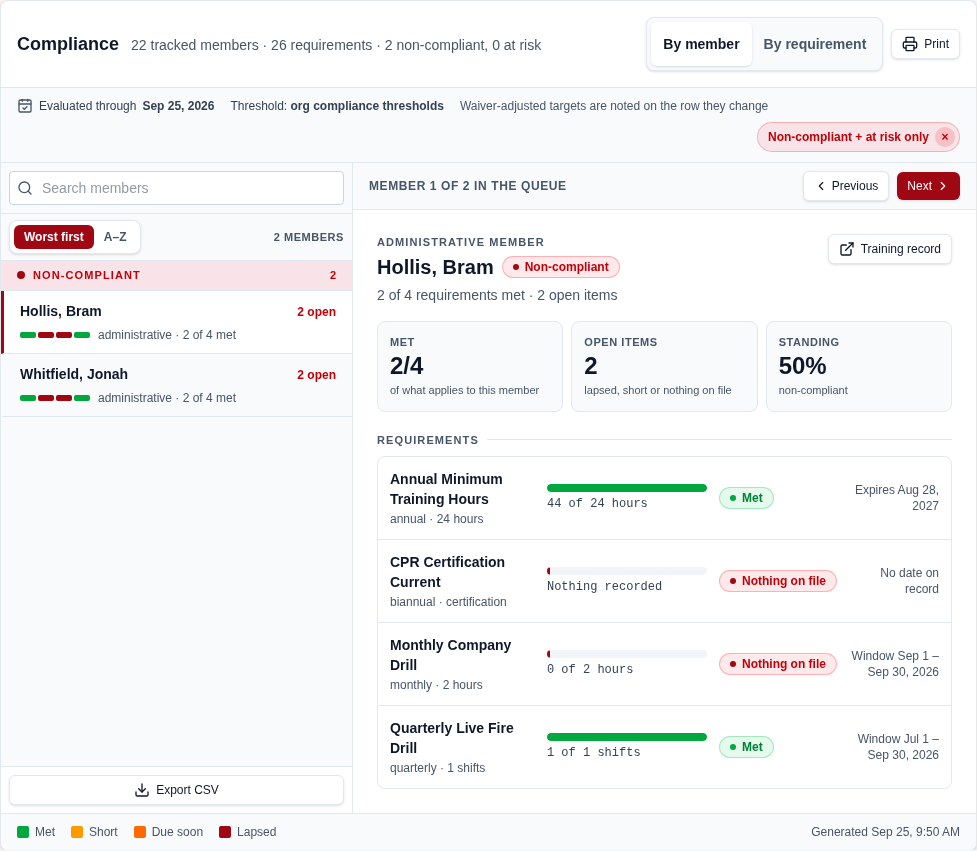
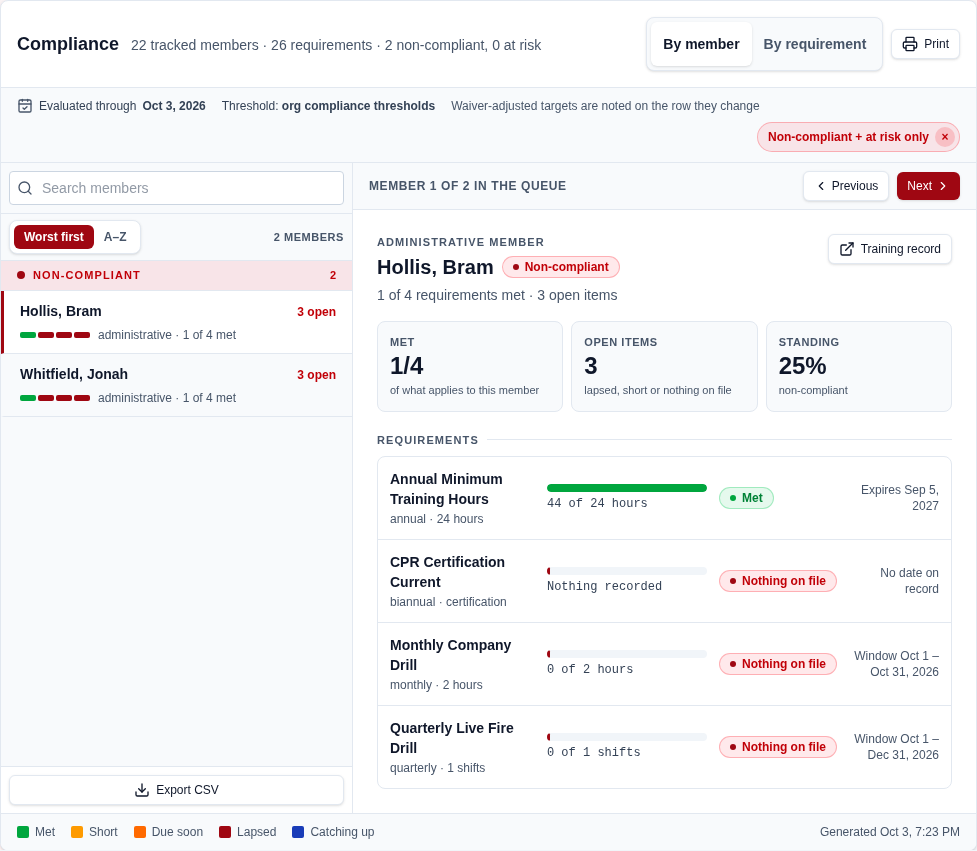
docs(screenshots): watchdog check-in, rebase onto main, re-shoot two stale shots
Rebased onto main (one new commit, ea939c38d: training requirement
grandfathering, PR #2878). That change adds an unconditional new legend
entry to the Compliance Matrix tab and an unconditional new caption line
to the printed compliance report, making 02-66-compliance-matrix and
02-65-print-compliance stale; re-shot both. Everything else the commit
touches gates its new UI on data no seeded demo requirement carries yet,
so the rest of the training guide's shots are unaffected.

Also corrected 02-66's alt text where re-seeding produced a different
shift figure than before, and fixed an unrelated pre-existing staleness
the re-shoot of 02-65 incidentally surfaced (stat-card labels had drifted
to COMPLIANT/AT RISK/NON-COMPLIANT from an earlier, untracked change).

audit_images.py reports no new findings against the baseline (582 images).

Claude-Session: https://claude.ai/code/session_01M6RQbvqu2x6BNrokNPaYjB

diff --git a/docs/training/SCREENSHOT_CURRENCY.md b/docs/training/SCREENSHOT_CURRENCY.md
@@ -1,5 +1,59 @@
 # Screenshot currency
 
+## Watchdog check-in: rebased onto main, one new commit audited, two shots re-shot, 2026-10-03
+
+This branch had drifted five commits behind `main` (merge-base `1e352a68b`):
+`ea939c38d` ("Let a training requirement exempt members who joined before it",
+PR #2878) plus its own three merge-main commits and the final merge commit
+`812b15cd4`. Rebased cleanly — none touch a file this branch's own commits
+modify.
+
+`ea939c38d` adds requirement "grandfathering": a new `catch_up` compliance
+tone/status, a substantially rewritten `RequirementModal.tsx` (new "Existing
+Members" policy section) and a new `ChangeScopeDialog.tsx`. Checked every
+screen this sweep's diff touched against what each shot actually frames:
+
+- **`02-92-requirement-evaluation-period`** — the new "Existing Members"
+  section is appended *after* `#req-include-current-month` in the DOM; the
+  shot scrolls that field to centre and captures the dialog's visible region,
+  so the new section falls outside the frame. Unaffected.
+- **`02-16-requirements`**, `SchedulingReportsPage`'s compliance tab
+  (`03-14-scheduling-reports`), `MyTrainingPage`, `CompliancePrintPage`'s
+  `cellMark` — all gate the new UI on `catch_up_deadline`/`grandfatheringSummary`
+  being set on the data, and the seeded demo requirements carry neither (the
+  feature is new), so nothing renders differently for them. Unaffected.
+- **`02-66-compliance-matrix`** — **stale.** `ComplianceMatrixTab.tsx`'s
+  legend row iterates a **fixed** tone list that now unconditionally includes
+  `CellTone.CATCH_UP` ("Catching up"), regardless of any member's data. Every
+  capture of this card now shows a fifth legend entry the old image lacks.
+  Re-shot.
+- **`02-65-print-compliance`** — **stale.** The caption line under the printed
+  table is a static string that now unconditionally reads `✓ met · ◐ in
+  progress · ✗ not started · Exp expired · Due existing member, before their
+  catch-up deadline · — does not apply to this member`, regardless of data.
+  Re-shot.
+- `PipelineEditModals.tsx`'s new "Members already enrolled" fieldset (shown
+  only when adding a requirement to a phase, not editing a link) has no
+  existing manifest entry — nothing to re-shoot.
+
+Re-shooting `02-66` also surfaced that the demo's `Quarterly Live Fire Drill`
+figure for Bram Hollis had drifted from the `1 of 1 shifts` the alt text
+quoted to `0 of 1 shifts` (seeded shift data isn't deterministic run to run);
+corrected the alt text in both `manifest.mjs` and the two places it's applied
+in `02-training.md` to match what the new image actually shows.
+
+Re-shooting `02-65` also happened to fix an unrelated, pre-existing staleness
+nothing had caught: its summary cards had drifted from `100% COMPLETE` /
+`PARTIALLY COMPLETE` / `NOT STARTED` (what the old, 9/25-dated capture shows)
+to the `CompliancePrintPage.tsx` that ships today, which reads `m.standing`
+and labels them `COMPLIANT` / `AT RISK` / `NON-COMPLIANT`. Whatever commit
+made that change predates this sweep's window and was never caught because
+nothing had re-shot this placeholder since. Fixed as a side effect of the
+re-shoot above; not chased further than this one image.
+
+`audit_images.py --baseline scripts/screenshots/audit_baseline.txt` reports no
+new findings (582 images checked).
+
 ## Watchdog check-in: rebased onto main, three new commits audited, 2026-10-03
 
 This branch had drifted three commits behind `main` (merge-base `2f08531b9`

diff --git a/docs/training/02-training.md b/docs/training/02-training.md
@@ -946,7 +946,7 @@ At risk, Compliant — worst first, and you step through them one at a time.
 The redesign, and why the grid went, is under
 [The Compliance Matrix is a queue you can work](#the-compliance-matrix-is-a-queue-you-can-work-2026-09-05) below.
 
-![The Compliance Matrix triage rail opened from the dashboard's non-compliant deep link: the Non-compliant + at risk only chip, members grouped by standing worst first, and Bram Hollis's detail with each requirement's figure — 44 of 24 hours, Nothing on file, 1 of 1 shifts](./images/02-66-compliance-matrix.png)
+![The Compliance Matrix triage rail opened from the dashboard's non-compliant deep link: the Non-compliant + at risk only chip, members grouped by standing worst first, and Bram Hollis's detail with each requirement's figure — 44 of 24 hours, Nothing on file, 0 of 1 shifts](./images/02-66-compliance-matrix.png)
 
 > **Hint:** Use this view for annual reporting and to identify which members need attention before compliance deadlines.
 
@@ -2701,7 +2701,7 @@ ordered worst-first, and stepped through one at a time, with the numbers behind
 each status on the row: _"6 of 24 hours"_, _"Lapsed 41 days ago"_, _"Expires in
 26 days"_.
 
-![The Compliance Matrix triage rail opened from the dashboard's non-compliant deep link: the Non-compliant + at risk only chip, members grouped by standing worst first, and Bram Hollis's detail with each requirement's figure — 44 of 24 hours, Nothing on file, 1 of 1 shifts](./images/02-66-compliance-matrix.png)
+![The Compliance Matrix triage rail opened from the dashboard's non-compliant deep link: the Non-compliant + at risk only chip, members grouped by standing worst first, and Bram Hollis's detail with each requirement's figure — 44 of 24 hours, Nothing on file, 0 of 1 shifts](./images/02-66-compliance-matrix.png)
 
 ### ⚠ Your compliance percentages may move
 
